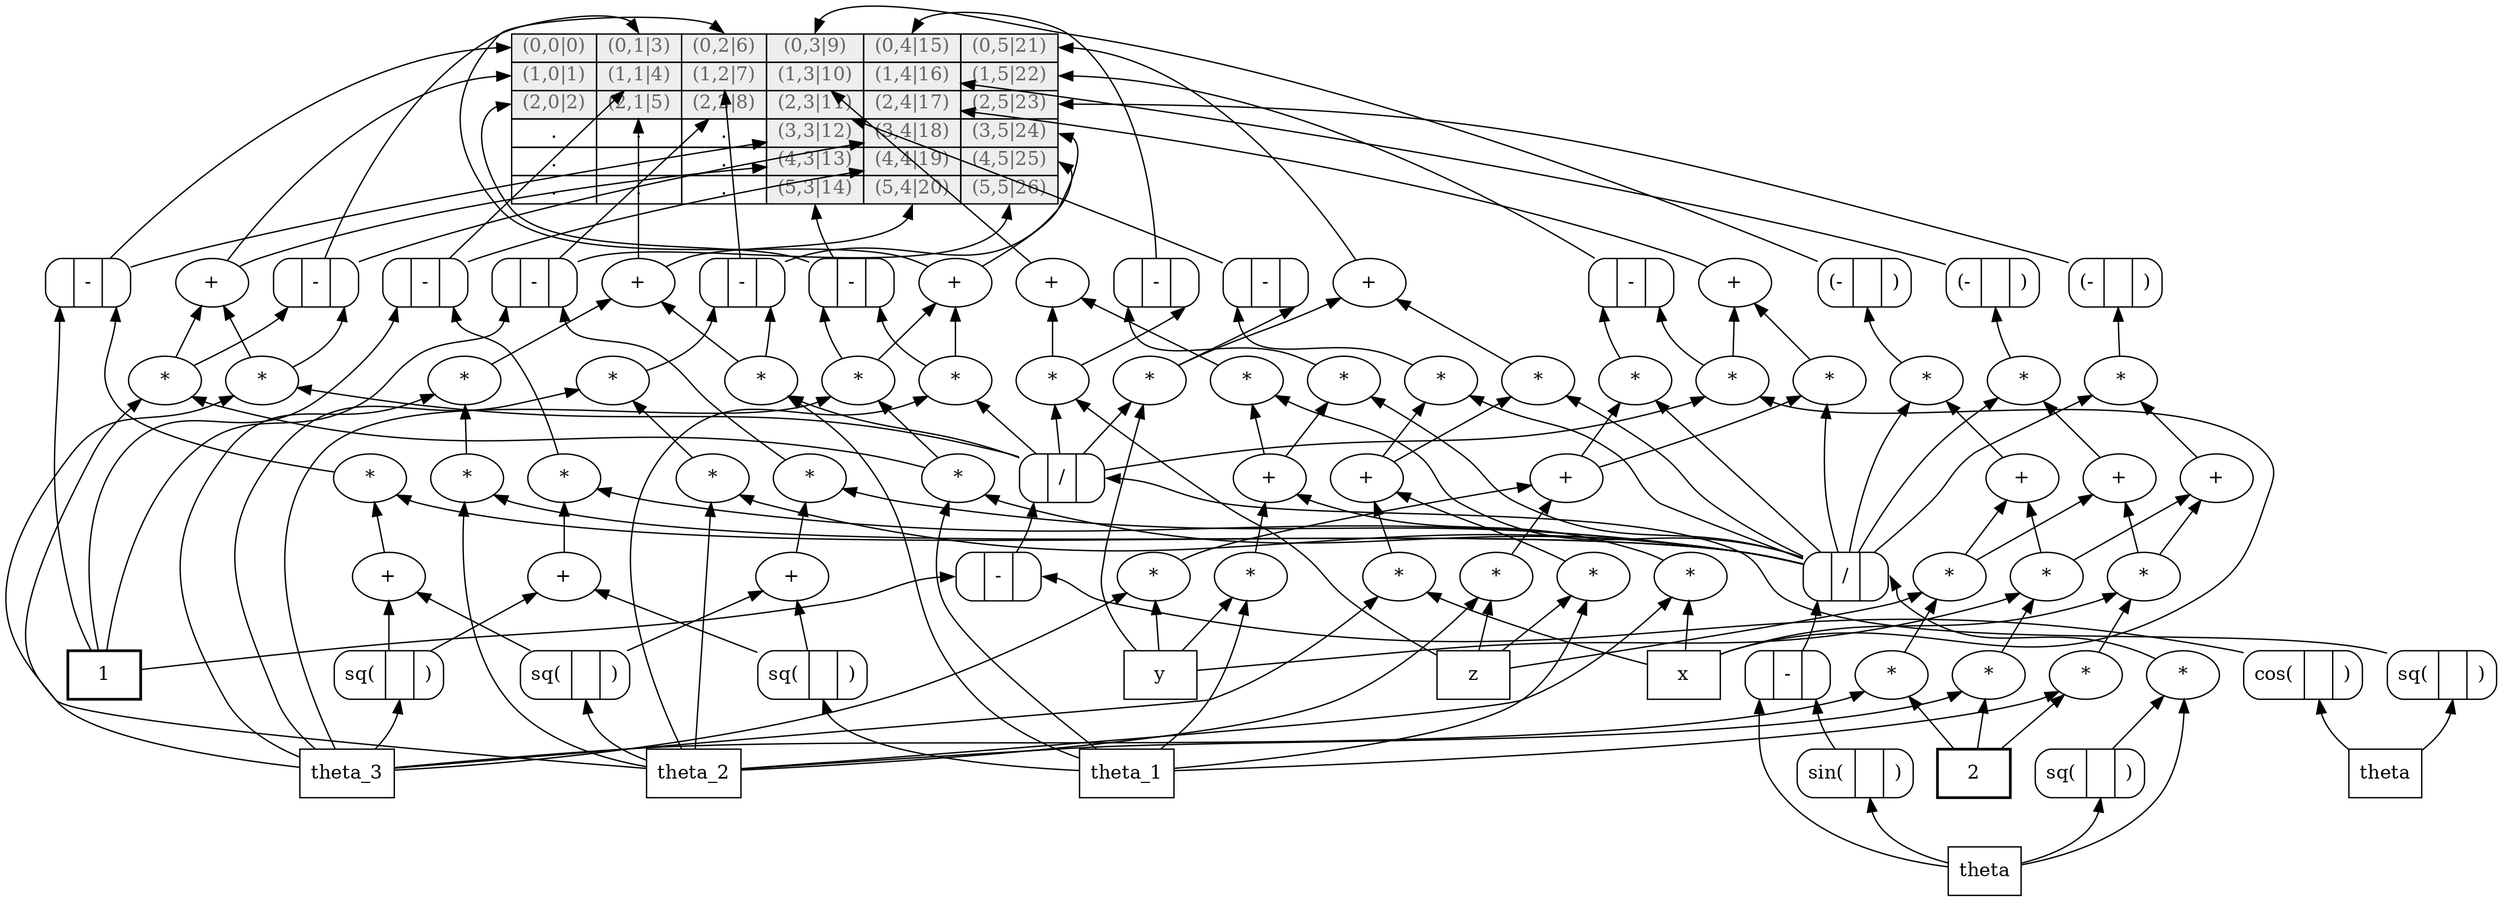
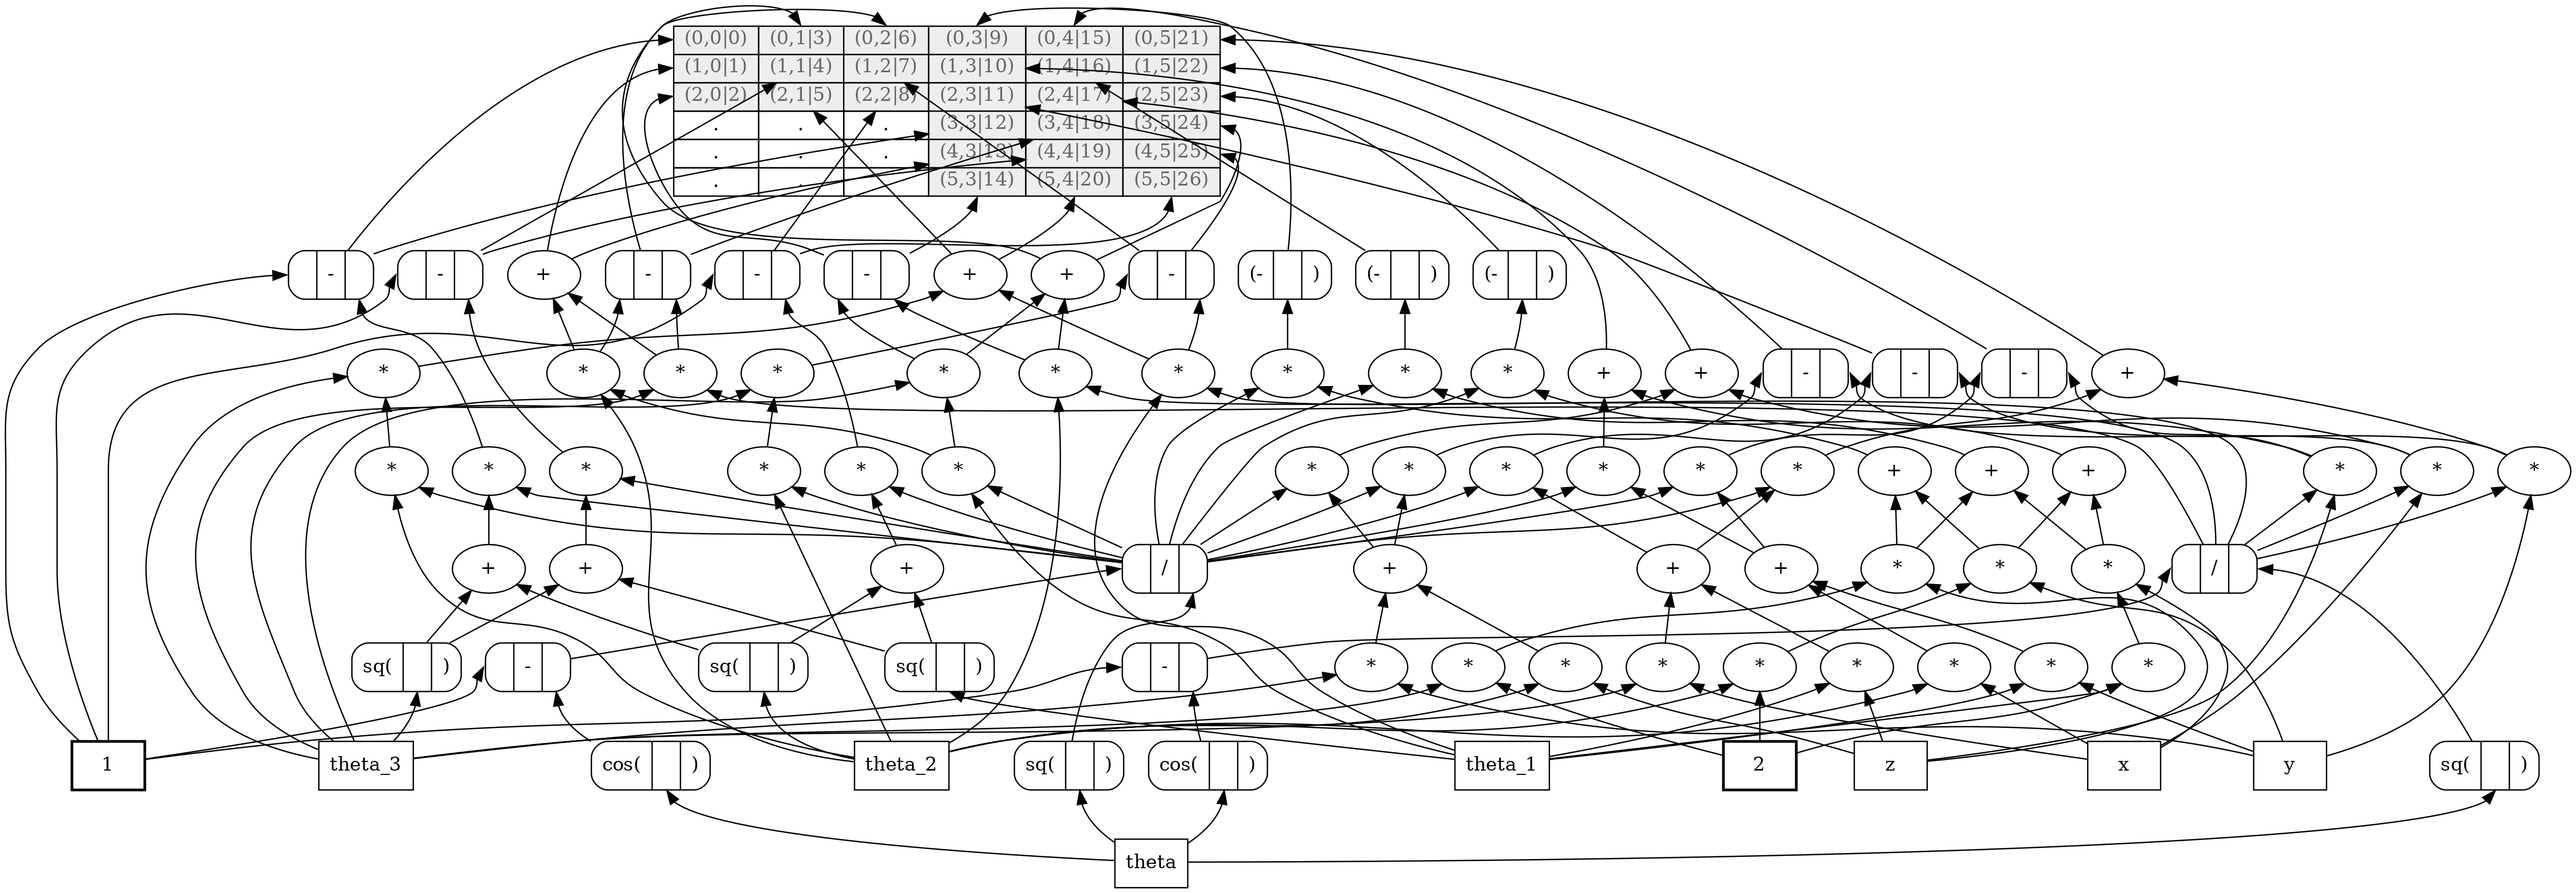
SympyToCasadi Func Update
Sympy_To_Casadi.py function accepts dictionary type class

diff --git a/pyecca_se3_implementation/Sympy_To_Casadi.py b/pyecca_se3_implementation/Sympy_To_Casadi.py
@@ -2,16 +2,15 @@ import sympy
 import numpy
 import casadi as ca
 
-#New sympy to casadi for SE3 (If Se2, need to add another function type)
 class SympyToCasadi:
     
     def __init__(self):
         self.symbols = {}
-        
-    def parse(self, f, depth=0, cse=False, verbose=False):
-        prs = lambda f: self.parse(f, depth=depth+1, cse=False, verbose=verbose)
+
+    def parse(self, f, f_dict=[] ,depth=0, cse=False, verbose=False):
+        prs = lambda f: self.parse(f, f_dict, depth=depth+1, cse=False, verbose=verbose)
         f_type = type(f)
-        f_dict = []
+        dict_keys = list(f_dict.keys())
         if verbose:
             print('-'*depth, f, 'type', f_type)
         if cse:
@@ -56,7 +55,7 @@ class SympyToCasadi:
                 for  j in range(f.shape[1]):                    
                     mat[i, j] = prs(f[i, j])
             return mat
-        elif f_type == sympy.core.numbers.Float: #convert float to int
+        elif f_type == sympy.core.numbers.Float: #Convert Float to int
             return int(f)
         elif f_type == sympy.core.numbers.One:
             return 1
@@ -66,113 +65,12 @@ class SympyToCasadi:
             return -1
         elif f_type == sympy.core.numbers.Half:
             return 0.5
-        elif str(f_type) == 'A_1':
-            ca_theta = ca.SX.sym(str(prs(f.args[0])))
-            f_replace = {'A_1': ca.Function('theta',[ca_theta], [
-                ca.if_else(type(ca_theta) == ca.casadi.SX, (1-ca.cos((ca_theta)))/(ca_theta**2), 
-                ca.if_else(ca.fabs(ca_theta) < 1e-5, 0.5 - ca_theta**2/24 + ca_theta**4/720, (1-ca.cos((ca_theta)))/(ca_theta**2))) #check square and **4 for casadi
-                ])}              
-            f_dict.append(f_replace) #Explore using f_dict outside of this elif statement           
-            return f_replace['A_1'](ca_theta) #ca.SX.sym('A_1')
-        elif str(f_type) == 'B_1':  #need to replace if statement with taylor series
-            ca_theta = ca.SX.sym(str(prs(f.args[0])))
-            f_replace = {'B_1': ca.Function('theta',[ca_theta], [
-                ca.if_else(type(ca_theta) == ca.casadi.SX, (ca_theta-ca.sin(ca_theta))/(ca_theta**3),
-                ca.if_else(ca.fabs(prs(f.args[0])) < 1e-5, 1/6 - ca_theta**2/120 + ca_theta**4/5040, (ca_theta-ca.sin(ca_theta))/(ca_theta**3))) 
-                ])}
-            f_dict.append(f_replace)
-            return f_replace['B_1'](ca_theta) #ca.SX.sym('B_1')
         elif str(f_type) == 'sin':
             return ca.sin(prs(f.args[0]))
         elif str(f_type) == 'cos':
             return ca.cos(prs(f.args[0]))
+        elif str(f_type) in dict_keys:
+            for i in range(len(dict_keys)):
+                return f_dict[dict_keys[i]](prs(f.args[0]))
         else:
             print('unhandled type', type(f), f)
-
-
-
-
-
-# class SympyToCasadi:
-    
-#     def __init__(self):
-#         self.symbols = {}
-        
-#     def parse(self, f, depth=0, cse=False, verbose=False):
-#         prs = lambda f: self.parse(f, depth=depth+1, cse=False, verbose=verbose)
-#         f_type = type(f)
-#         f_dict = []
-#         if verbose:
-#             print('-'*depth, f, 'type', f_type)
-#         if cse:
-#             cse_defs, cse_exprs = sympy.cse(f)
-#             assert len(cse_exprs) == 1
-#             ca_cse_defs = {}
-#             for symbol, subexpr in reversed(cse_defs):
-#                 ca_cse_defs[prs(symbol)] = prs(subexpr)
-#             f_ca = prs(cse_exprs[0])
-#             for k, v in ca_cse_defs.items():
-#                 f_ca = ca.substitute(f_ca, k, v)
-#             for symbol, subexpr in reversed(cse_defs):
-#                 if str(symbol) in self.symbols:
-#                     self.symbols.pop(str(symbol))
-#             return f_ca
-#         if f_type == sympy.core.add.Add:
-#             s = 0
-#             for arg in f.args:
-#                 s += prs(arg)
-#             return s
-#         elif f_type == sympy.core.mul.Mul:
-#             prod = 1
-#             for arg in f.args:
-#                 prod *= prs(arg)
-#             return prod
-#         elif f_type == sympy.core.numbers.Integer:
-#             return int(f)
-#         elif f_type == sympy.core.power.Pow:
-#             base, power = f.args
-#             base_ca = prs(base)
-#             if type(power) == sympy.core.numbers.Half:
-#                 return ca.sqrt(base_ca)
-#             else:
-#                 return base_ca**prs(power)
-#         elif f_type == sympy.core.symbol.Symbol:
-#             if str(f) not in self.symbols:
-#                 self.symbols[str(f)] = ca.SX.sym(str(f))
-#             return self.symbols[str(f)]
-#         elif f_type == sympy.matrices.dense.MutableDenseMatrix:
-#             mat = ca.SX(f.shape[0], f.shape[1])
-#             for i in range(f.shape[0]):
-#                 for  j in range(f.shape[1]):                    
-#                     mat[i, j] = prs(f[i, j])
-#             return mat
-#         elif f_type == sympy.core.numbers.Float: #convert float to int
-#             return int(f)
-#         elif f_type == sympy.core.numbers.One:
-#             return 1
-#         elif f_type == sympy.core.numbers.Zero:
-#             return 0
-#         elif f_type == sympy.core.numbers.NegativeOne:
-#             return -1
-#         elif f_type == sympy.core.numbers.Half:
-#             return 0.5
-#         elif str(f_type) == 'A_1':
-#             ca_theta = ca.SX.sym(str(prs(f.args[0])))
-#             f_replace = {'A_1': ca.Function('theta',[ca_theta], [
-#                 ca.if_else(ca.fabs(ca_theta) < 1e-5, 0.5 - ca_theta**2/24 + ca_theta**4/720, (1-ca.cos((ca_theta)))/(ca_theta**2) ) #check square and **4 for casadi
-#                 ])}            
-#             f_dict.append(f_replace)
-#             return ca.SX.sym('A_1') #f_replace['A_1']
-#         elif str(f_type) == 'B_1':  #need to replace if statement with taylor series
-#             ca_theta = ca.SX.sym(str(prs(f.args[0])))
-#             f_replace = {'B_1': ca.Function('theta',[ca_theta], [
-#                 ca.if_else(ca.fabs(prs(f.args[0])) < 1e-5, 1/6 - ca_theta**2/120 + ca_theta**4/5040, (ca_theta-ca.sin(ca_theta))/(ca_theta**3)) 
-#                 ])}
-#             f_dict.append(f_replace)
-#             return ca.SX.sym('B_1')
-#         elif str(f_type) == 'sin':
-#             return ca.sin(prs(f.args[0]))
-#         elif str(f_type) == 'cos':
-#             return ca.cos(prs(f.args[0]))
-#         else:
-#             print('unhandled type', type(f), f)
